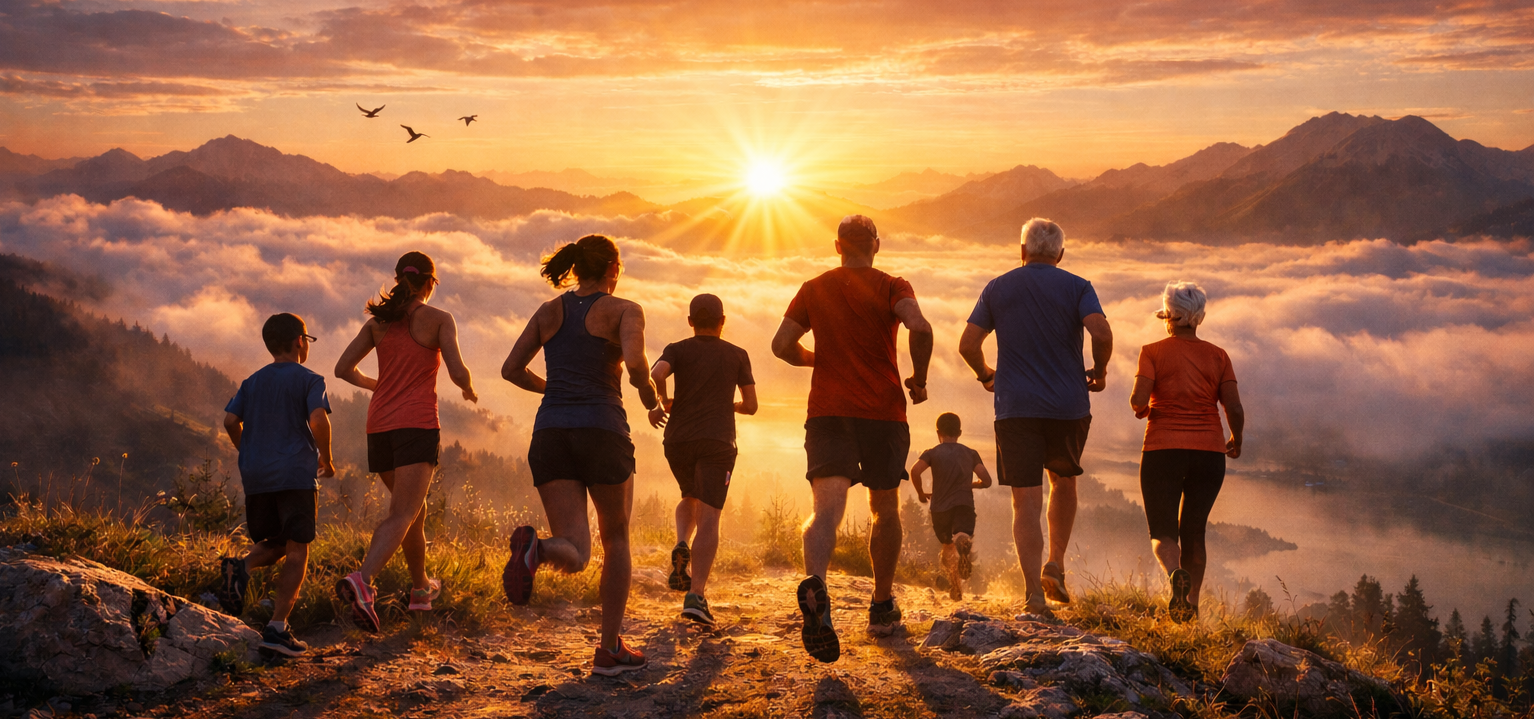
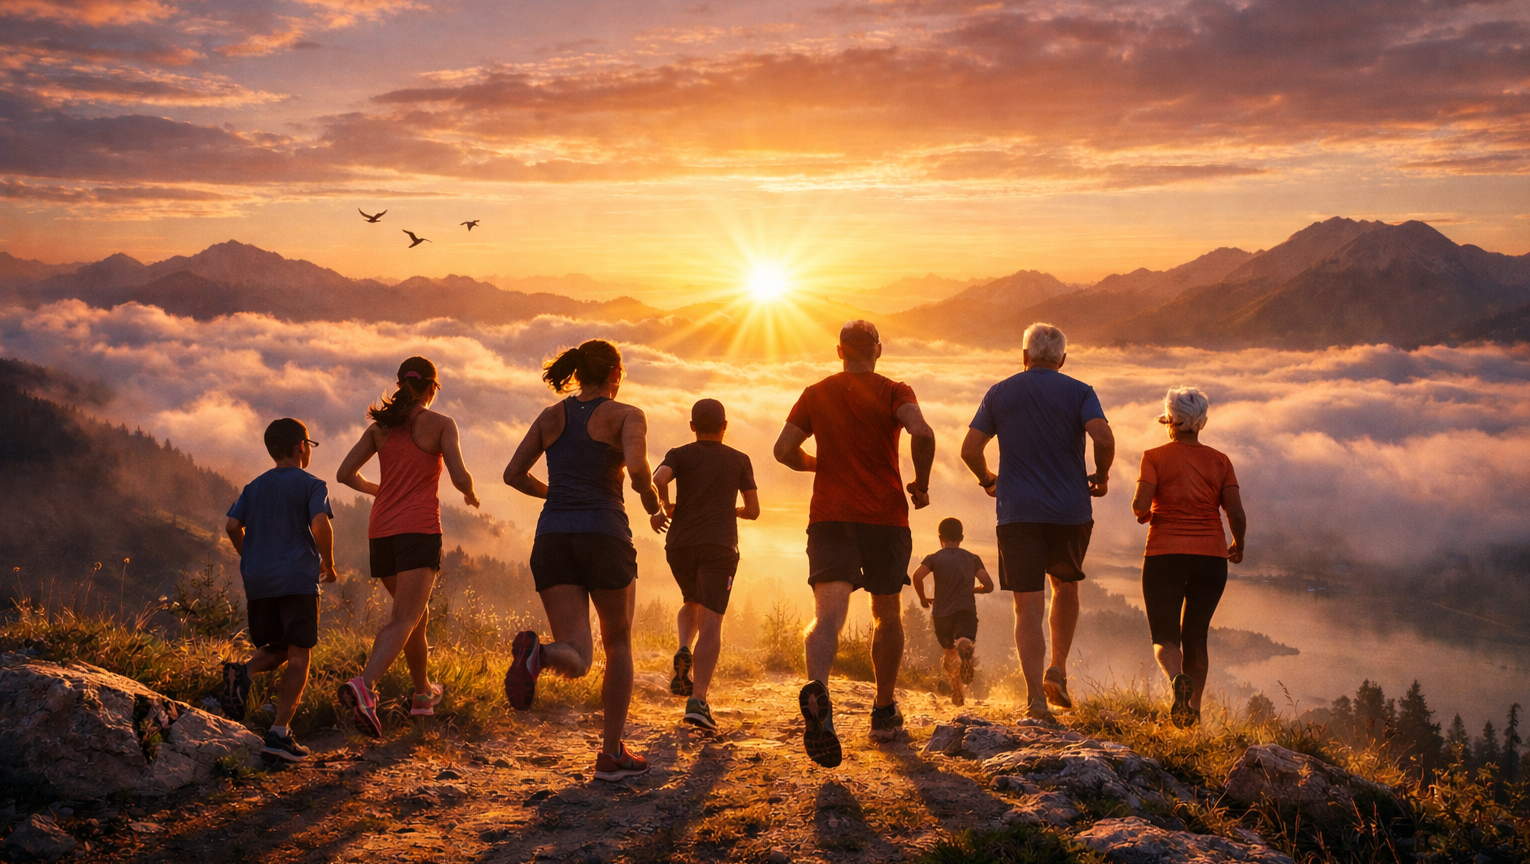
content(lenkki): update picture to higher version

diff --git a/blog/index.html b/blog/index.html
@@ -71,7 +71,7 @@
         <a class="contact-link" href="https://www.threads.net/@marko.kekalainen" target="_blank" rel="noopener noreferrer">Threads</a>
         <a class="contact-link" href="https://www.strava.com/athletes/markokekalainen" target="_blank" rel="noopener noreferrer">Strava</a>
       </div>
-      <p class="iteration-count">Version: 66</p>
+      <p class="iteration-count">Version: 67</p>
     </footer>
   </body>
 </html>

diff --git a/blog/lahde-liikkeelle/index.html b/blog/lahde-liikkeelle/index.html
@@ -71,7 +71,7 @@
         <a class="contact-link" href="https://www.threads.net/@marko.kekalainen" target="_blank" rel="noopener noreferrer">Threads</a>
         <a class="contact-link" href="https://www.strava.com/athletes/markokekalainen" target="_blank" rel="noopener noreferrer">Strava</a>
       </div>
-      <p class="iteration-count">Version: 66</p>
+      <p class="iteration-count">Version: 67</p>
     </footer>
   </body>
 </html>

diff --git a/index.html b/index.html
@@ -61,7 +61,7 @@
         <a class="contact-link" href="https://www.threads.net/@marko.kekalainen" target="_blank" rel="noopener noreferrer">Threads</a>
         <a class="contact-link" href="https://www.strava.com/athletes/markokekalainen" target="_blank" rel="noopener noreferrer">Strava</a>
       </div>
-      <p class="iteration-count">Version: 66</p>
+      <p class="iteration-count">Version: 67</p>
     </footer>
   </body>
 </html>

diff --git a/miksi/index.html b/miksi/index.html
@@ -73,7 +73,7 @@
         <a class="contact-link" href="https://www.threads.net/@marko.kekalainen" target="_blank" rel="noopener noreferrer">Threads</a>
         <a class="contact-link" href="https://www.strava.com/athletes/markokekalainen" target="_blank" rel="noopener noreferrer">Strava</a>
       </div>
-      <p class="iteration-count">Version: 66</p>
+      <p class="iteration-count">Version: 67</p>
     </footer>
   </body>
 </html>

diff --git a/yhteiso/lahteen-yhteisolenkki/index.html b/yhteiso/lahteen-yhteisolenkki/index.html
@@ -69,7 +69,7 @@
         <a class="contact-link" href="https://www.threads.net/@marko.kekalainen" target="_blank" rel="noopener noreferrer">Threads</a>
         <a class="contact-link" href="https://www.strava.com/athletes/markokekalainen" target="_blank" rel="noopener noreferrer">Strava</a>
       </div>
-      <p class="iteration-count">Version: 66</p>
+      <p class="iteration-count">Version: 67</p>
     </footer>
   </body>
 </html>
